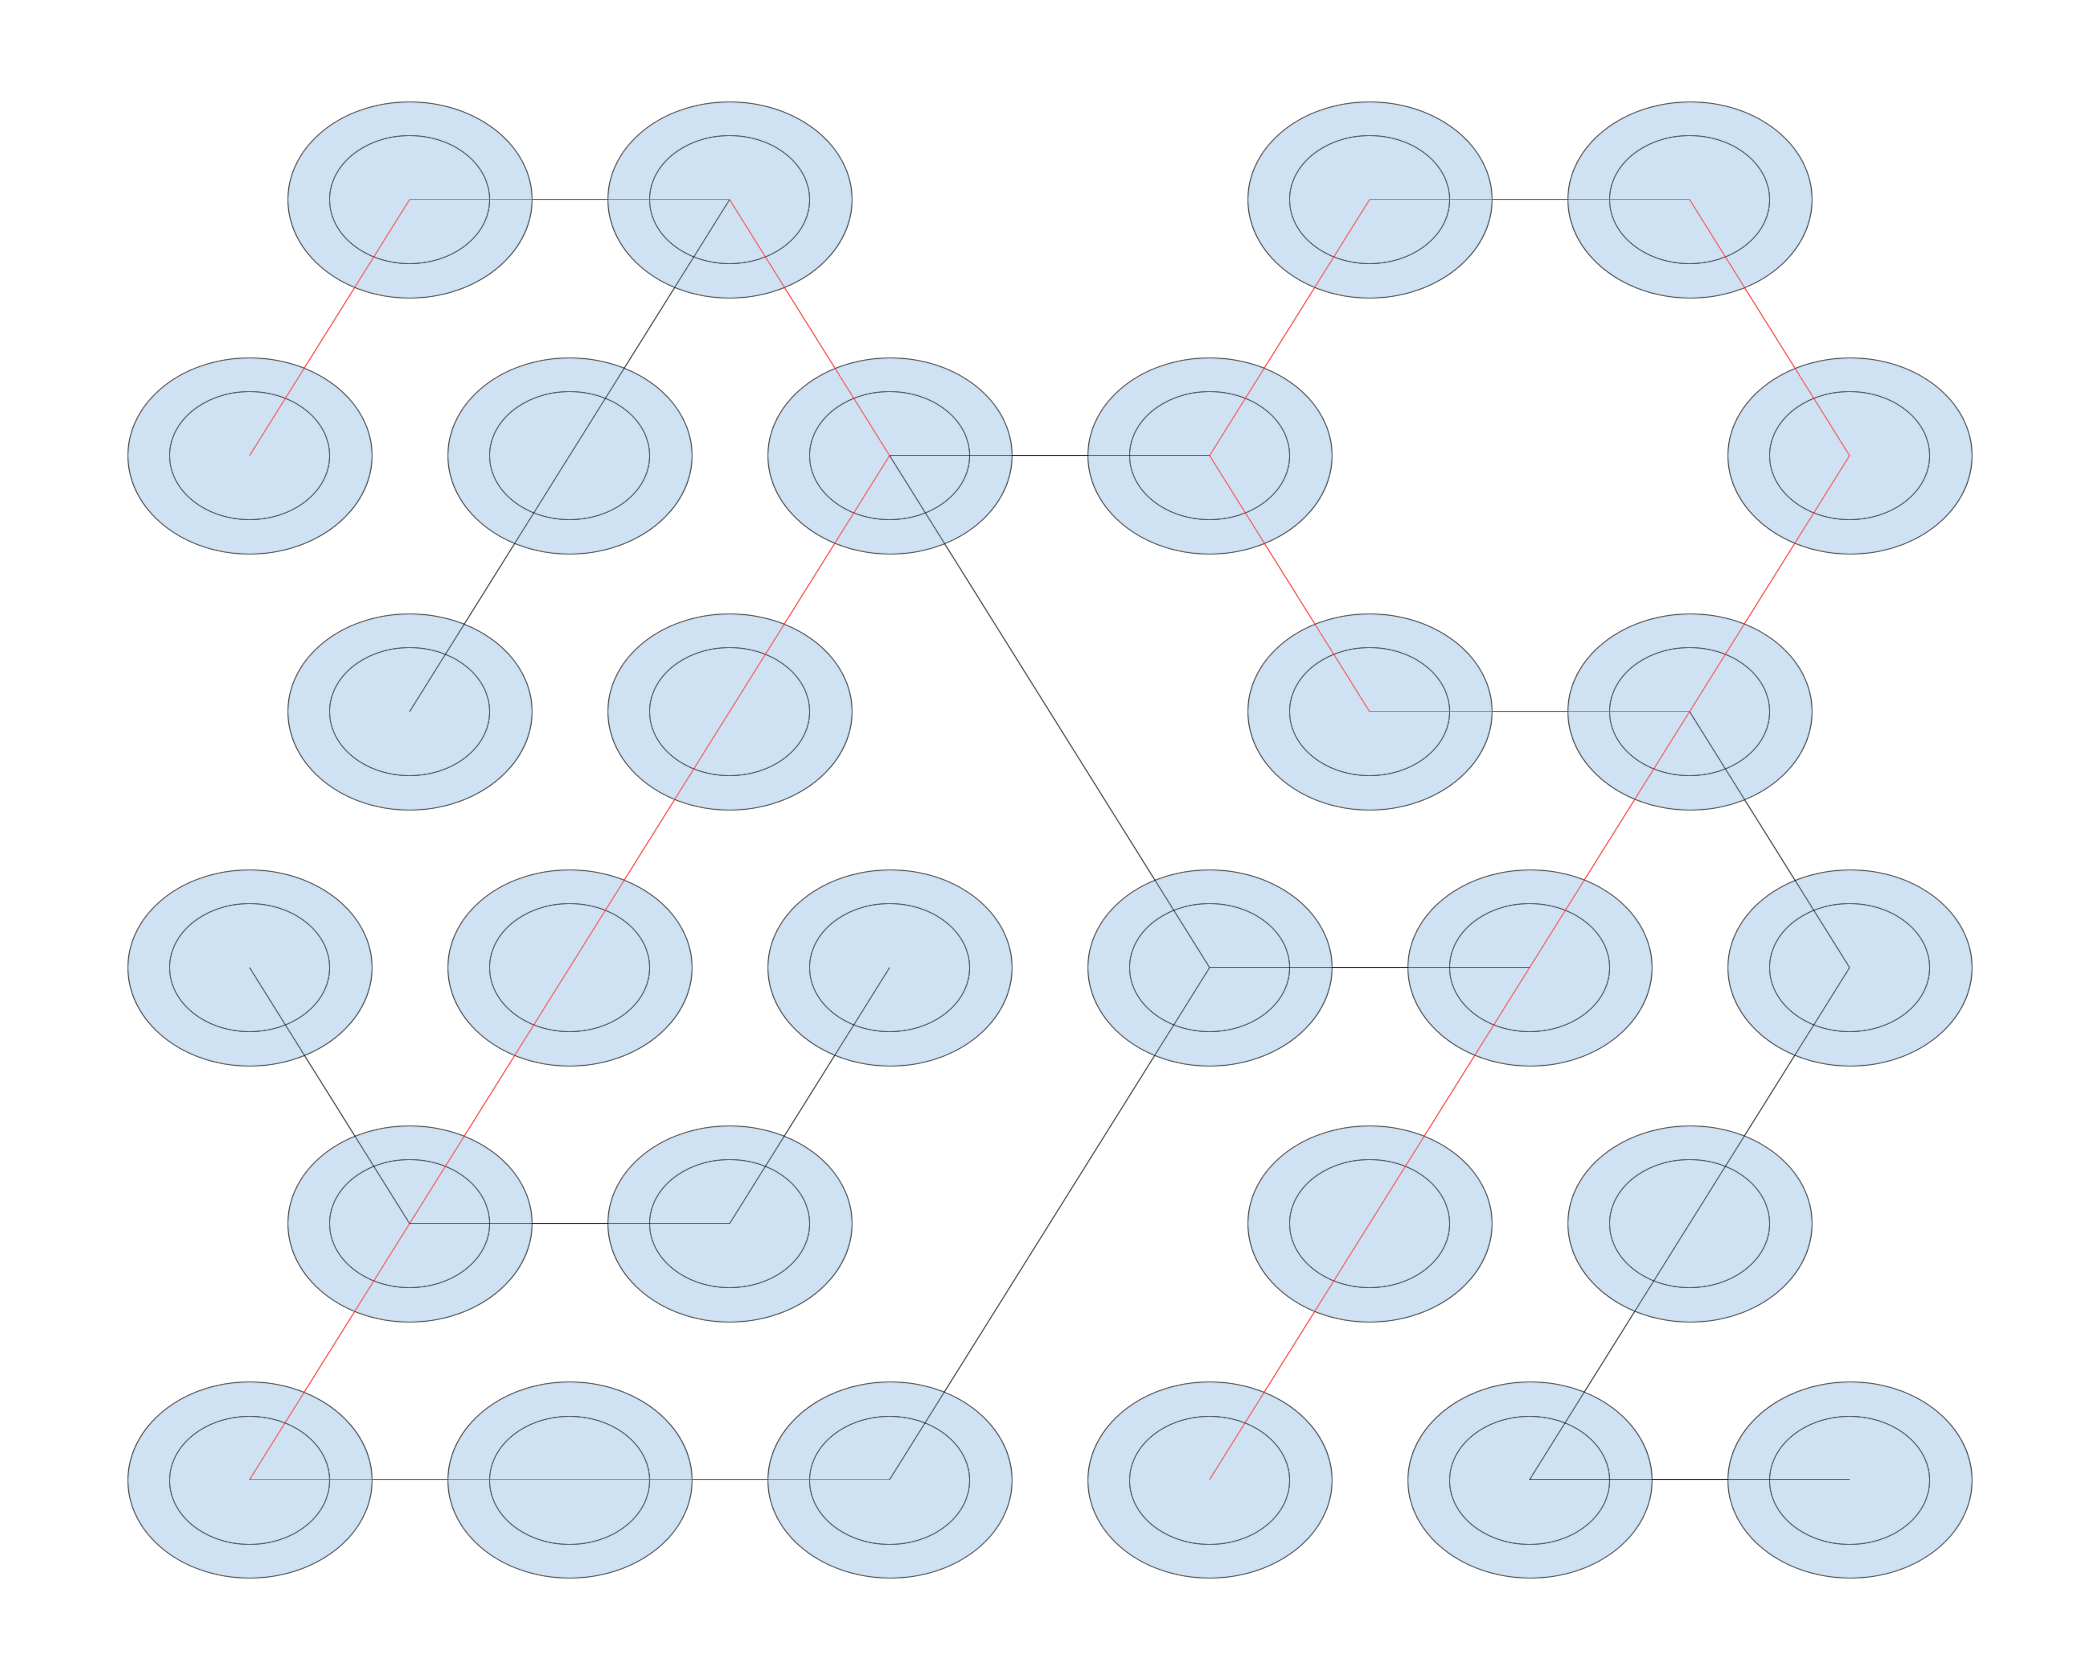
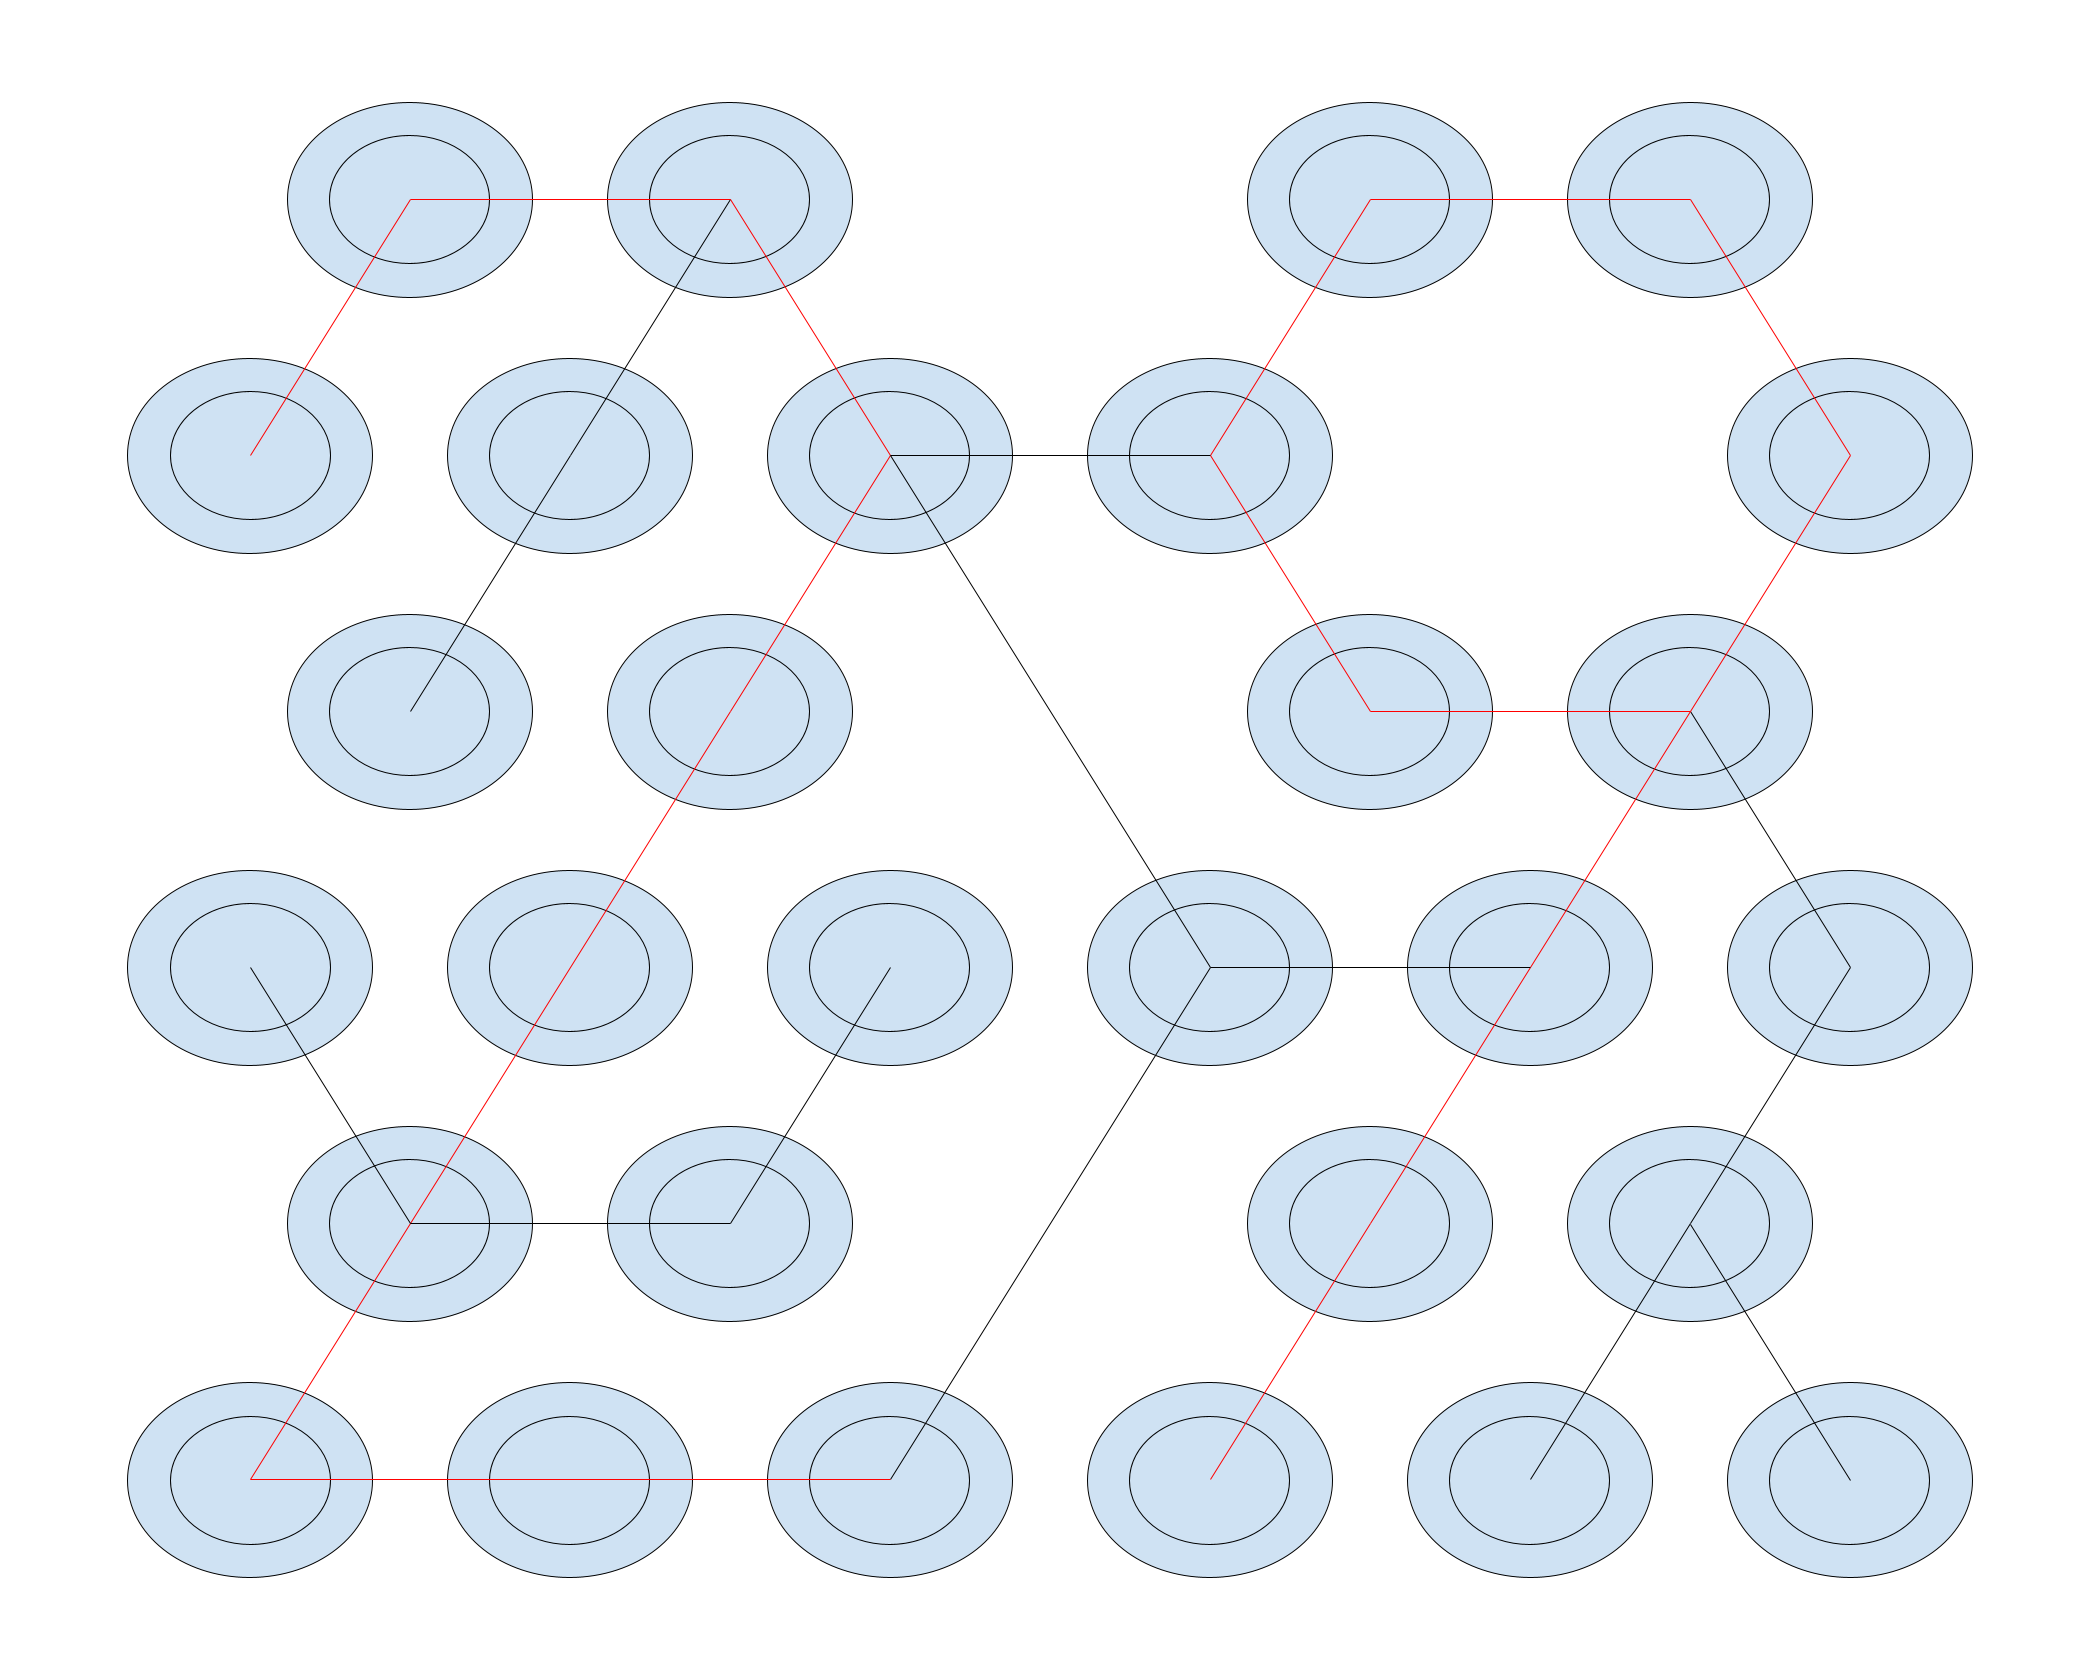
Minimap

diff --git a/main.js b/main.js
@@ -37,6 +37,7 @@ $(function () {
       left: -(coords.left) + 'px',
     });
     $('.arrow').hide();
+    visitMinimap(pid);
   }
 
   UTILS.showArrows = function () {
@@ -53,6 +54,58 @@ $(function () {
 
   $('.arrow').click(
     e => moveMap(MAP_DATA[currentPid].arrows[e.target.dataset.dir]));
+
+  // ################################
+  // Minimap
+
+  const MINIMAP_ROW_HEIGHT = 20, MINIMAP_COL_WIDTH = 15,
+    MINIMAP_TOP_OFFSET = 12, MINIMAP_LEFT_OFFSET = 15;
+
+  function getMiniMapCoords(pid) {
+    return {
+      x: MINIMAP_LEFT_OFFSET + MAP_DATA[pid].col * MINIMAP_COL_WIDTH,
+      y: MINIMAP_TOP_OFFSET + MAP_DATA[pid].row * MINIMAP_ROW_HEIGHT,
+    };
+  }
+
+  // Generate a tag in SVG namespace
+  function S(tag, attr) {
+    return $(document.createElementNS(
+      "http://www.w3.org/2000/svg", tag.replace(/[<>]/g, '')))
+      .attr(attr || {});
+  }
+
+  function setupMinimap() {
+    S('circle', {
+      id: 'mm-player',
+      r: 4,
+      fill: 'red',
+    }).appendTo('#minimap-avatars');
+    Object.keys(MAP_DATA).forEach(pid => {
+      let coords = getMiniMapCoords(pid);
+      S('circle', {
+        cx: coords.x, cy: coords.y,
+        r: 5,
+        fill: 'yellow',
+      }).appendTo('#minimap-nodes').addClass('mm-' + pid).hide();
+      Object.keys(MAP_DATA[pid].arrows).forEach(d => {
+        if (d === 'nw' || d === 'sw' || d === 'w') return;
+        let tgt = MAP_DATA[pid].arrows[d], tgtCoords = getMiniMapCoords(tgt);
+        S('line', {
+          x1: coords.x, y1: coords.y,
+          x2: tgtCoords.x, y2: tgtCoords.y,
+          stroke: 'yellow', 'stroke-width': 2,
+        }).appendTo('#minimap-edges')
+          .addClass('mm-' + pid).addClass('mm-' + tgt).hide();
+      });
+    });
+  }
+
+  function visitMinimap(pid) {
+    $('.mm-' + pid).show();
+    let coords = getMiniMapCoords(pid);
+    $('#mm-player').attr({cx: coords.x, cy: coords.y});
+  }
 
   // ################################
   // NPC Encounter
@@ -188,6 +241,7 @@ $(function () {
 
   function setupMain() {
     setupNPCs();
+    setupMinimap();
     $('.scene').hide();
     $('#scene-main').show();
     setTimeout(() => moveMap('a1'), 1);

diff --git a/data.js b/data.js
@@ -693,14 +693,20 @@ const [MAP_DATA, NPC_DATA] = function () {
     arrows: {'nw': 'c3', 'sw': 'd2'},
   };
 
-  // d2: shackle [+ key --> ice]
+  // d2
   map_data.d2 = {
     pid: 'd2', row: 4, col: 9,
-    arrows: {'ne': 'd1', 'sw': 'd3'},
+    arrows: {'ne': 'd1', 'sw': 'd3', 'se': 'd4'},
+  };
+
+  // d3: shackle [+ key --> ice]
+  map_data.d3 = {
+    pid: 'd3', row: 5, col: 8,
+    arrows: {'ne': 'd2'},
   };
 
   npc_data.shackle = {
-    nid: 'shackle', loc: 'd2',
+    nid: 'shackle', loc: 'd3',
     name: 'ไอซ์',
     actionText: 'ขอตังหน่อย',
     itemText: USE,
@@ -747,16 +753,10 @@ const [MAP_DATA, NPC_DATA] = function () {
     },
   };
 
-  // d3:
-  map_data.d3 = {
-    pid: 'd3', row: 5, col: 8,
-    arrows: {'ne': 'd2', 'e': 'd4'},
-  };
-
   // d4: blacksmith [+ sword + gem --> power sword]
   map_data.d4 = {
     pid: 'd4', row: 5, col: 10,
-    arrows: {'w': 'd3'},
+    arrows: {'nw': 'd2'},
   };
 
   npc_data.blacksmith = {

diff --git a/index.html b/index.html
@@ -34,7 +34,13 @@
           </div>
         </div>
         <div id=hud-pane>
-          <div id=minimap></div>
+          <div id=minimap-wrapper>
+            <svg id=minimap width=180 height=125>
+              <g id=minimap-edges></g>
+              <g id=minimap-nodes></g>
+              <g id=minimap-avatars></g>
+            </svg>
+          </div>
           <div id=inventory>
             <div class=item data-iid=""></div>
             <div class=item data-iid=""></div>

diff --git a/style.css b/style.css
@@ -147,7 +147,7 @@ div.scene {
   position: absolute;
   width: 2100px; height: 1680px; left: 0; top: -1260px;
   background: url('img/map-draft-2.png');
-  transition: left 300ms, top 300ms;
+  transition: left 250ms linear, top 250ms linear;
 }
 
 .arrow {
@@ -285,7 +285,7 @@ div.scene {
 /* ################################ */
 /* minimap */
 
-#minimap {
+#minimap-wrapper {
   position: absolute;
   left: 10px; top: 10px; width: 180px; height: 125px;
   background: green;
